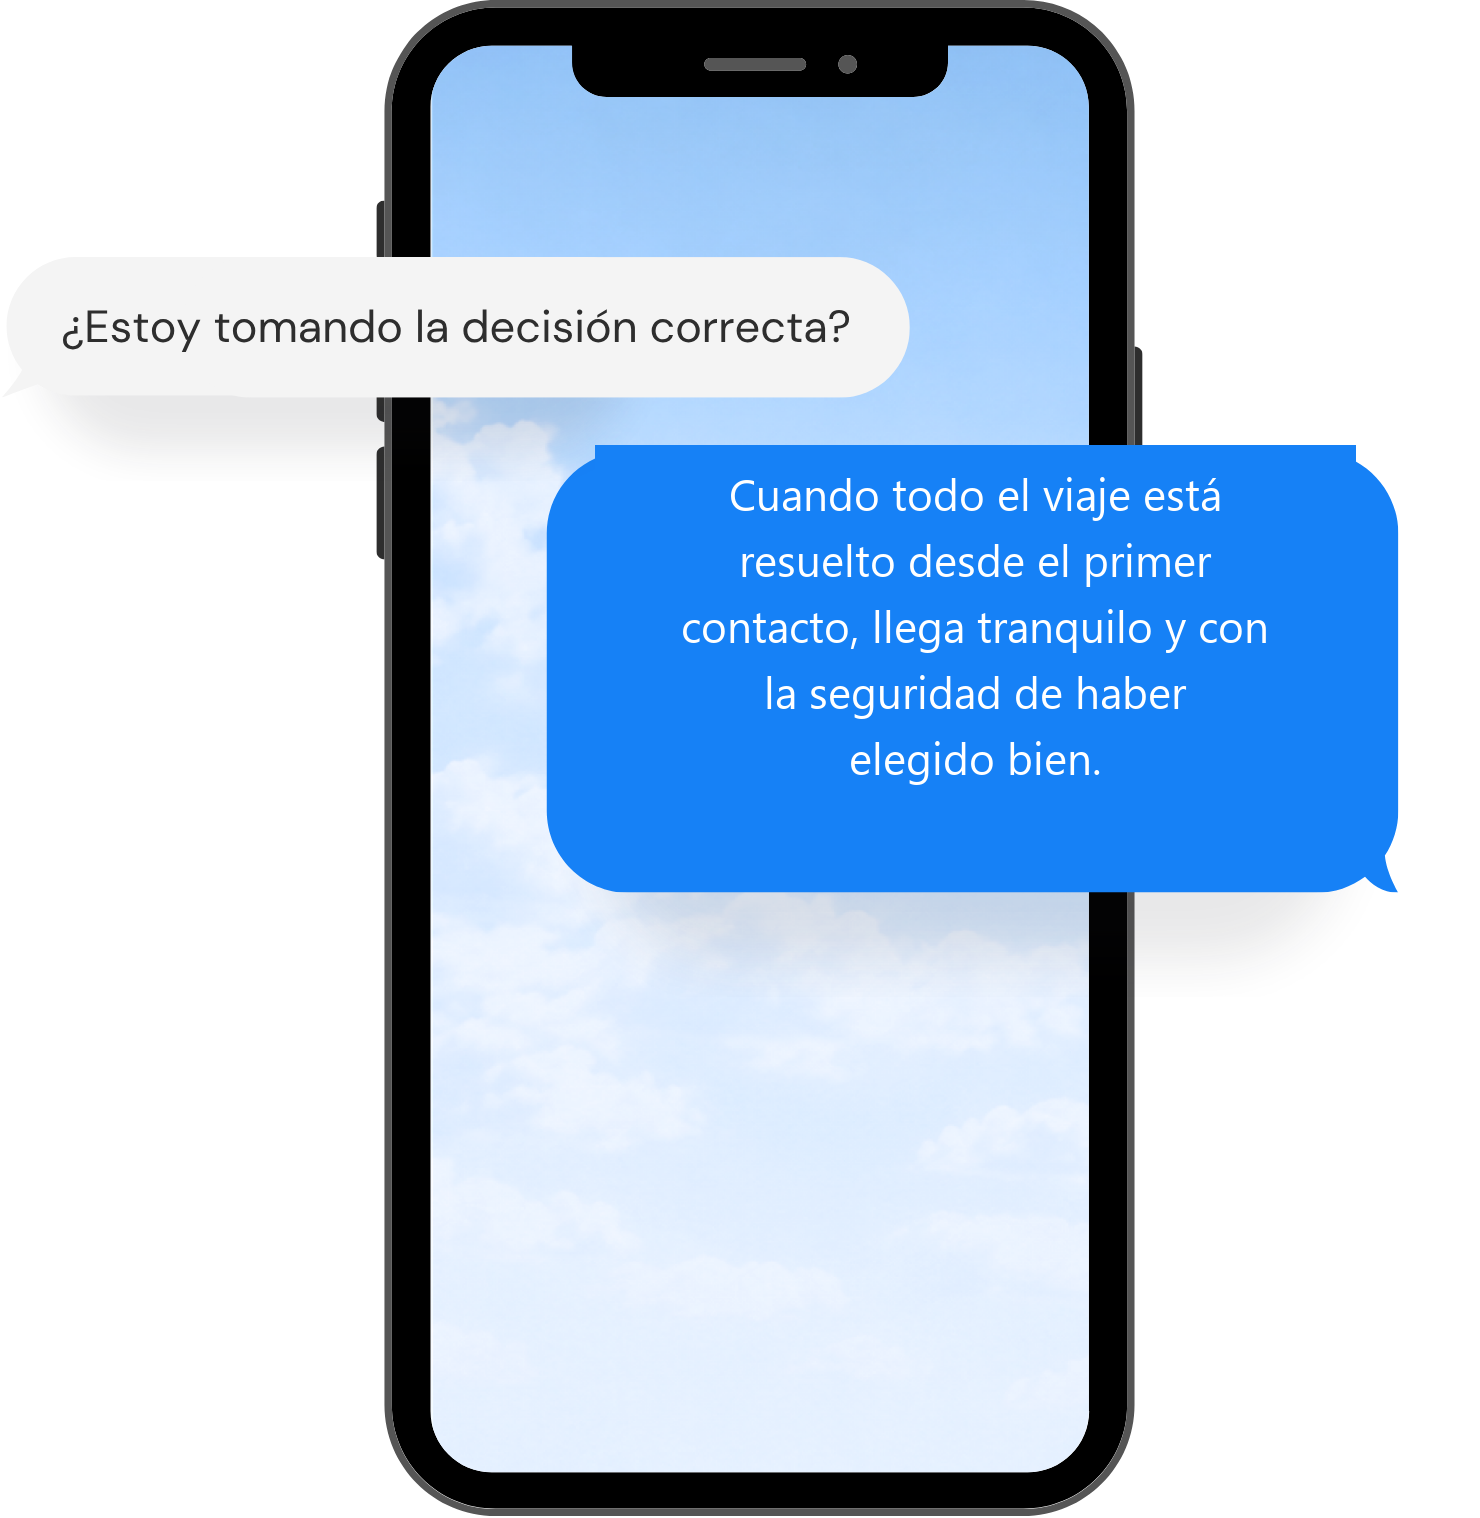
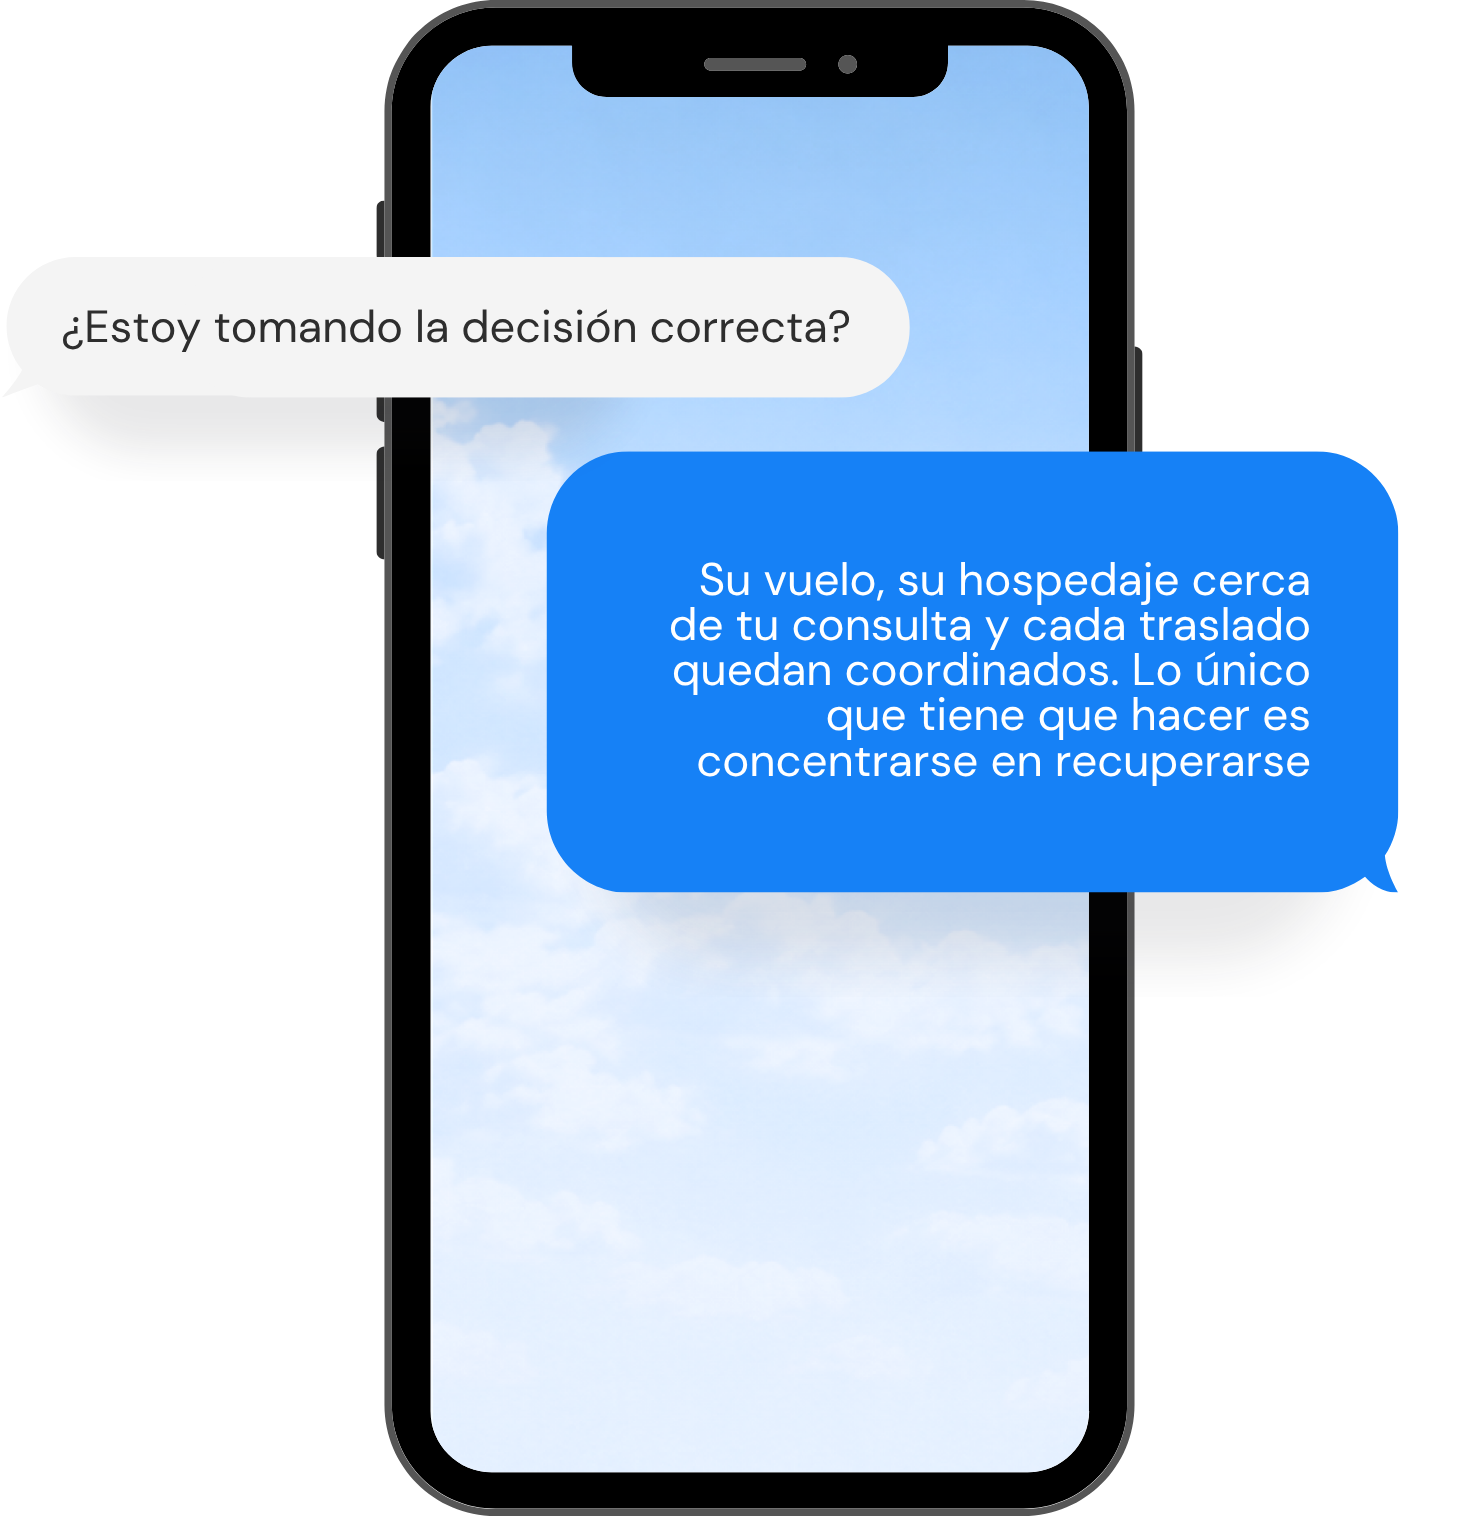
Refine medical patient phone hover

Changed region(s): [[0.4041, 0.2787, 0.9324, 0.5264]]

diff --git a/css/styles.css b/css/styles.css
@@ -15996,20 +15996,27 @@ body.medical-landing .medical-patient-card {
 
 body.medical-landing .medical-patient-phone-wrapper {
   width: 100%;
-  overflow: visible;
+  margin-top: 16px;
+  overflow: hidden;
   position: relative;
-  background: transparent !important;
-  box-shadow: none !important;
-  border: none !important;
-  border-radius: 0 !important;
-  transition: transform 0.8s cubic-bezier(0.16, 1, 0.3, 1);
+  border-radius: 28px;
+  box-shadow: 0 20px 48px rgba(6, 43, 85, 0.05);
+  transition: transform 0.4s cubic-bezier(0.25, 1, 0.5, 1), box-shadow 0.4s ease;
+  transform: translateY(0);
+  background: transparent;
+  aspect-ratio: 1480 / 430; /* Clip before the answer bubble in the resting state */
+}
+
+body.medical-landing .medical-patient-phone-wrapper:hover,
+body.medical-landing .medical-patient-card.is-phone-hovered .medical-patient-phone-wrapper {
+  transform: translateY(-26px);
+  box-shadow: 0 28px 58px rgba(6, 43, 85, 0.12);
 }
 
 body.medical-landing .medical-patient-phone-scroll {
   width: 100%;
   display: block;
-  transition: clip-path 0.8s cubic-bezier(0.16, 1, 0.3, 1), transform 0.8s cubic-bezier(0.16, 1, 0.3, 1);
-  clip-path: inset(0 0 68% 0); /* Hide the answer bubble initially */
+  transition: transform 0.8s cubic-bezier(0.16, 1, 0.3, 1);
   transform: translateY(0);
 }
 
@@ -16019,13 +16026,10 @@ body.medical-landing .medical-patient-phone-img {
   display: block;
 }
 
-body.medical-landing .medical-patient-card:hover .medical-patient-phone-scroll {
-  clip-path: inset(0 0 0% 0); /* Reveal the entire phone, showing both question and answer */
-  transform: translateY(-25px); /* Slide up to show both bubbles */
-}
-
-body.medical-landing .medical-patient-card:hover .medical-patient-phone-wrapper {
-  transform: translateY(-8px); /* Lift phone slightly on hover */
+body.medical-landing .medical-patient-card:hover .medical-patient-phone-scroll,
+body.medical-landing .medical-patient-phone-wrapper:hover .medical-patient-phone-scroll,
+body.medical-landing .medical-patient-card.is-phone-hovered .medical-patient-phone-scroll {
+  transform: translateY(-27.5%); /* Slide up only through the answer bubble */
 }
 
 /* Yellow patient benefit banner */
@@ -16042,7 +16046,7 @@ body.medical-landing .medical-patient-banner {
 body.medical-landing .medical-patient-banner p {
   color: var(--primary) !important;
   font-family: var(--font-heading);
-  font-size: clamp(1.05rem, 1.3vw, 1.25rem) !important;
+  font-size: clamp(1rem, 1.08vw, 1.14rem) !important;
   font-weight: 700 !important;
   line-height: 1.45 !important;
   margin: 0 !important;
@@ -16061,10 +16065,10 @@ body.medical-landing .medical-patient-banner p {
   }
 
   body.medical-landing .medical-patient-phone-wrapper {
-    background: transparent !important;
-    box-shadow: none !important;
-    border: none !important;
-    border-radius: 0 !important;
+    aspect-ratio: 1480 / 1518; /* Show the entire phone screen on mobile */
+    border-radius: 0;
+    margin-top: 0;
+    box-shadow: none;
   }
   
   body.medical-landing .medical-patient-phone-wrapper:hover {
@@ -16076,4 +16080,3 @@ body.medical-landing .medical-patient-banner p {
     transform: none !important;
   }
 }
-

diff --git a/js/main.js b/js/main.js
@@ -1266,6 +1266,14 @@ document.addEventListener('DOMContentLoaded', () => {
         });
       }
 
+      document.querySelectorAll('.medical-patient-card').forEach(card => {
+        const hoverTargets = [card, card.querySelector('.medical-patient-phone-wrapper'), card.querySelector('.medical-patient-phone-img')].filter(Boolean);
+        hoverTargets.forEach(target => {
+          target.addEventListener('pointerenter', () => card.classList.add('is-phone-hovered'));
+        });
+        card.addEventListener('pointerleave', () => card.classList.remove('is-phone-hovered'));
+      });
+
       // 3. Section Reveals
       const revealElements = document.querySelectorAll('.reveal');
       if (desktopMotion) {
